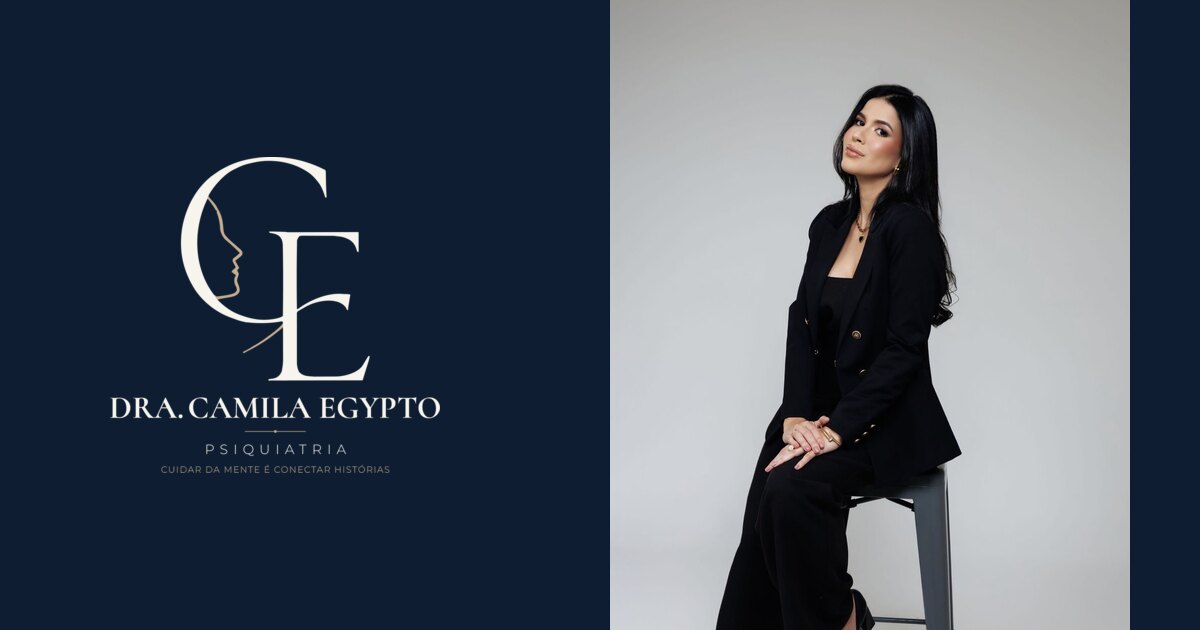
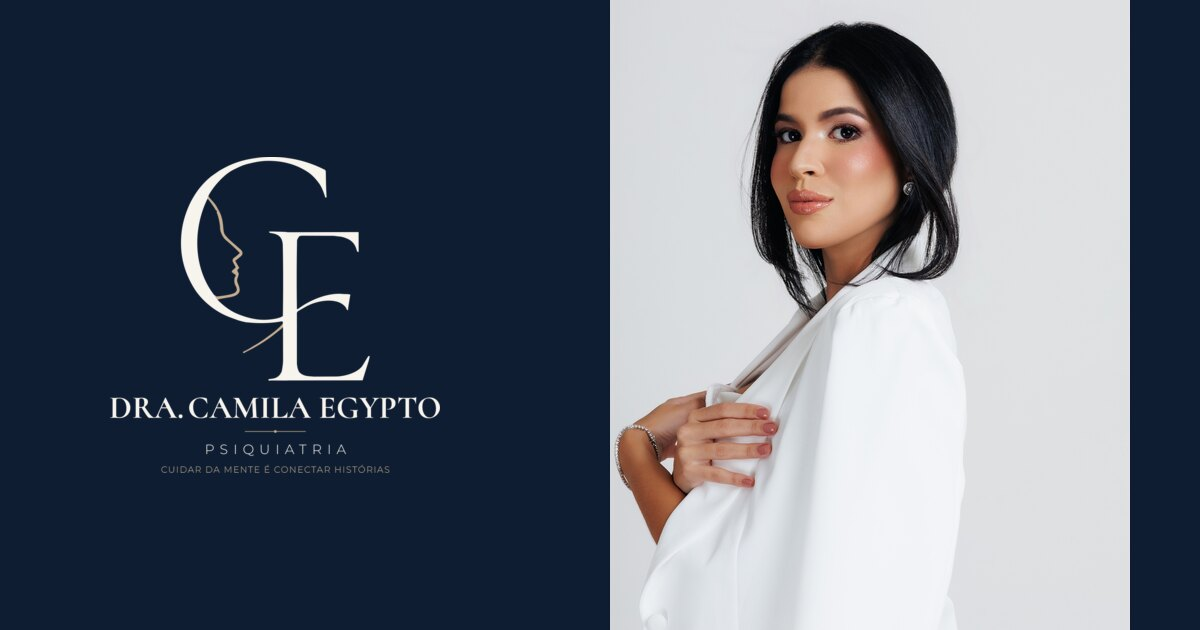
Card 03 com foto e nova prévia de compartilhamento
- 'Como funciona': card 03 usa a antiga foto da entrada (blazer preto),
  com a frase em destaque um pouco menor
- og-image refeita com a foto nova da entrada; URL com ?v=2 para o
  WhatsApp buscar a versão nova

Claude-Session: https://claude.ai/code/session_01TYBGoq5iX9HP6UZaFC5Ymu

diff --git a/index.html b/index.html
@@ -12,13 +12,13 @@
     <meta property="og:title" content="Dra. Camila Egypto | %QUALIFICACAO%" />
     <meta property="og:description" content="Cuidar da mente é conectar histórias. Atendimento psiquiátrico com escuta qualificada e uma abordagem técnica, empática e individualizada." />
     <meta property="og:url" content="https://dra-camila-egypto.vercel.app/" />
-    <meta property="og:image" content="https://dra-camila-egypto.vercel.app/images/og-image.jpg" />
+    <meta property="og:image" content="https://dra-camila-egypto.vercel.app/images/og-image.jpg?v=2" />
     <meta property="og:image:alt" content="Dra. Camila Egypto, %QUALIFICACAO%" />
     <meta property="og:site_name" content="Dra. Camila Egypto" />
     <meta property="og:image:width" content="1200" />
     <meta property="og:image:height" content="630" />
     <meta name="twitter:card" content="summary_large_image" />
-    <meta name="twitter:image" content="https://dra-camila-egypto.vercel.app/images/og-image.jpg" />
+    <meta name="twitter:image" content="https://dra-camila-egypto.vercel.app/images/og-image.jpg?v=2" />
     <link rel="canonical" href="https://dra-camila-egypto.vercel.app/" />
 
     <link rel="icon" href="/brand/favicon.ico" sizes="any" />

diff --git a/src/sections/ComoFunciona.tsx b/src/sections/ComoFunciona.tsx
@@ -34,7 +34,7 @@ function Card({ card, index, progresso, reduced }: { card: CardComoFunciona; ind
           <div>
             <h3 className="font-serif font-medium leading-tight text-claro text-[clamp(1.8rem,3.6vw,3.4rem)]">{card.titulo}</h3>
             {card.destaque && (
-              <p className="mt-4 font-serif italic leading-[1.08] text-claro text-[clamp(1.7rem,4.4vw,4.2rem)]">{card.destaque}</p>
+              <p className="mt-3 font-serif italic leading-[1.1] text-claro text-[clamp(1.5rem,3vw,2.8rem)]">{card.destaque}</p>
             )}
             <p className="mt-4 max-w-xl font-light leading-relaxed text-claro/70 text-[clamp(0.88rem,1.3vw,1.1rem)]">{card.texto}</p>
           </div>

diff --git a/src/content.ts b/src/content.ts
@@ -102,6 +102,7 @@ export const comoFunciona: { titulo: string; cards: CardComoFunciona[] } = {
       titulo: "O acompanhamento",
       destaque: "Saúde mental é processo, não apenas uma consulta.",
       texto: "Acompanhar a evolução permite ajustar o tratamento, prevenir recaídas e construir um cuidado sustentável ao longo do tempo.",
+      foto: { nome: "hero-camila", alt: "Dra. Camila Egypto sentada em uma banqueta, de blazer preto" },
     },
   ],
 };

diff --git a/PROMPT-SITE-ATUAL.md b/PROMPT-SITE-ATUAL.md
@@ -133,7 +133,7 @@ Todos os números grandes (01/02/03 do "Cuidado centrado", do "Como funciona" e 
 - Layout do card: número grande + título + texto curto de um lado; foto do outro (`rounded-[40px]`, object-cover). No mobile, foto acima do texto.
   - Card 01 → `atendimento-camila`
   - Card 02 → `atuacao-camila`
-  - Card 03 → sem foto: frase em destaque, serif grande.
+  - Card 03 → `hero-camila` (blazer preto, na banqueta; antiga foto da entrada), com a frase em destaque um pouco menor (`clamp(1.5rem, 3vw, 2.8rem)`).
 
 - Mobile (abaixo de md): o card tem a altura do conteúdo (sem `h-[85vh]` nem altura fixa), foto com 240px (300px em sm), espaçamento de 24px entre cards; mantém o sticky e a escala. Desktop sem mudanças.
 
@@ -330,12 +330,12 @@ Mantenha todos os itens válidos a cada mudança:
    - Regra "NÃO QUERO" atualizada: depoimentos inventados proibidos; avaliações reais permitidas, sem estrelas, notas ou identificação.
    - `html { position: relative }` para o useScroll do Framer Motion medir corretamente (removia um aviso no console de desenvolvimento).
 
-10. **Foto da entrada trocada** pela de blazer branco escolhida pela cliente (primeiro a partir de um print, depois substituída pelo arquivo original em alta, 1717×2576). A foto antiga da entrada (`hero-camila`, blazer preto na banqueta) ficou sem uso no site e é candidata ao card 03 de "Como funciona", se a cliente aprovar. A imagem de compartilhamento (`og-image.jpg`) continua com a foto antiga.
+11. **Card 03 de "Como funciona" com foto:** usa a antiga foto da entrada (`hero-camila`), como os cards 01 e 02.
+12. **Prévia de compartilhamento** (`og-image.jpg`) refeita com a foto nova da entrada; URL com `?v=2` para o WhatsApp não usar a versão antiga em cache.
+10. **Foto da entrada trocada** pela de blazer branco escolhida pela cliente (primeiro a partir de um print, depois substituída pelo arquivo original em alta, 1717×2576). A foto antiga da entrada (`hero-camila`, blazer preto na banqueta) passou para o card 03.
 
 ### Pendências
 - RQE de Psiquiatria.
-- Refazer a `og-image.jpg` (prévia de compartilhamento) com a foto nova, se a cliente quiser.
-- Card 03 de "Como funciona": foto nova ou reaproveitar `hero-camila`, se a cliente aprovar.
 - Possível nova frase para a entrada (a cliente está pensando).
 - Confirmar com o CREMEC a qualificação (trocar `QUALIFICACAO` se for o caso) e a publicação das avaliações.
 - Confirmar com a cliente a menção à especialidade enquanto residente (RQE), ver observação abaixo.
